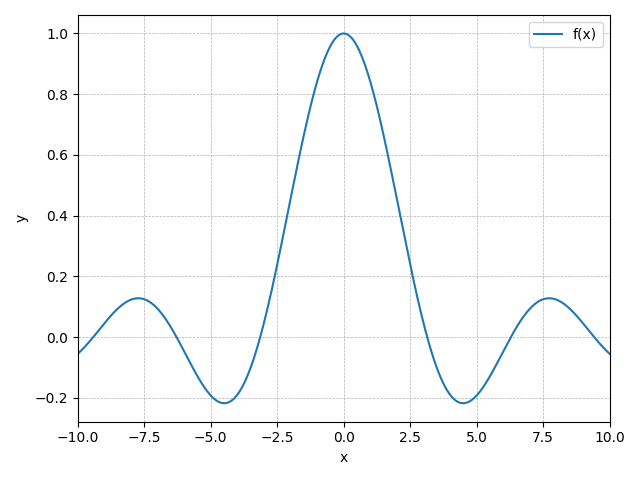
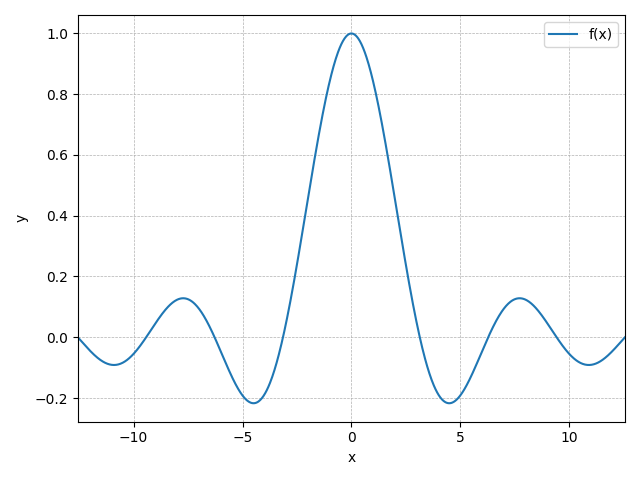
docs: update README.md

diff --git a/examples/examples.py b/examples/examples.py
@@ -19,7 +19,7 @@ def plot(x, y):
 
 
 def main():
-    x = np.linspace(-10, +10, 1000)
+    x = np.linspace(-4 * np.pi, +4 * np.pi, 1000)
     y = np.sin(x) / x
 
     for style in get_mplstyles():

diff --git a/README.md b/README.md
@@ -25,7 +25,8 @@ matplotlibrc style files for scientific plotting.
 
 Please feel free to add your own favourite styles to the libary! Start from the empty 
 template file ``default.mplstyle`` and change the parameters you like.
-If you are happy with the style, add the file to the ``mplstyles`` and open a pull request. 
+If you are happy with the style, add the file to the ``mplstyles`` package and open 
+a pull request. 
 
 
 > **Note**: If you are using PyCharm to edit the ``*.mplstyle`` files, right-click on the file
@@ -62,7 +63,10 @@ print(get_mplstyles())
 All examples are generated with the following code and by applying the different styles:
 ````python
 fig, ax = plt.subplots()
-ax.plot(x, y)
+ax.plot(x, y, label="f(x)")
+ax.set_xlabel("x")
+ax.set_ylabel("y")
+ax.legend()
 ````
 
 ### ``plots.mplstyle``
@@ -80,6 +84,24 @@ Style for generatig single-column figures for APS journals (physical review, ...
 
 <p align="center">
   <img src="https://raw.githubusercontent.com/dylanljones/mplstyles/master/examples/aps.mplstyle.png" alt="aps.mplstyle example" style="width: 400px" />
+</p>
+
+
+### ``aps1.5.mplstyle``
+
+Style for generatig 1.5-column figures for APS journals (physical review, ...)
+
+<p align="center">
+  <img src="https://raw.githubusercontent.com/dylanljones/mplstyles/master/examples/aps1.5.mplstyle.png" alt="aps1.5.mplstyle example" style="width: 400px" />
+</p>
+
+
+### ``aps2.mplstyle``
+
+Style for generatig double-column figures for APS journals (physical review, ...)
+
+<p align="center">
+  <img src="https://raw.githubusercontent.com/dylanljones/mplstyles/master/examples/aps2.mplstyle.png" alt="aps2.mplstyle example" style="width: 400px" />
 </p>
 
 
